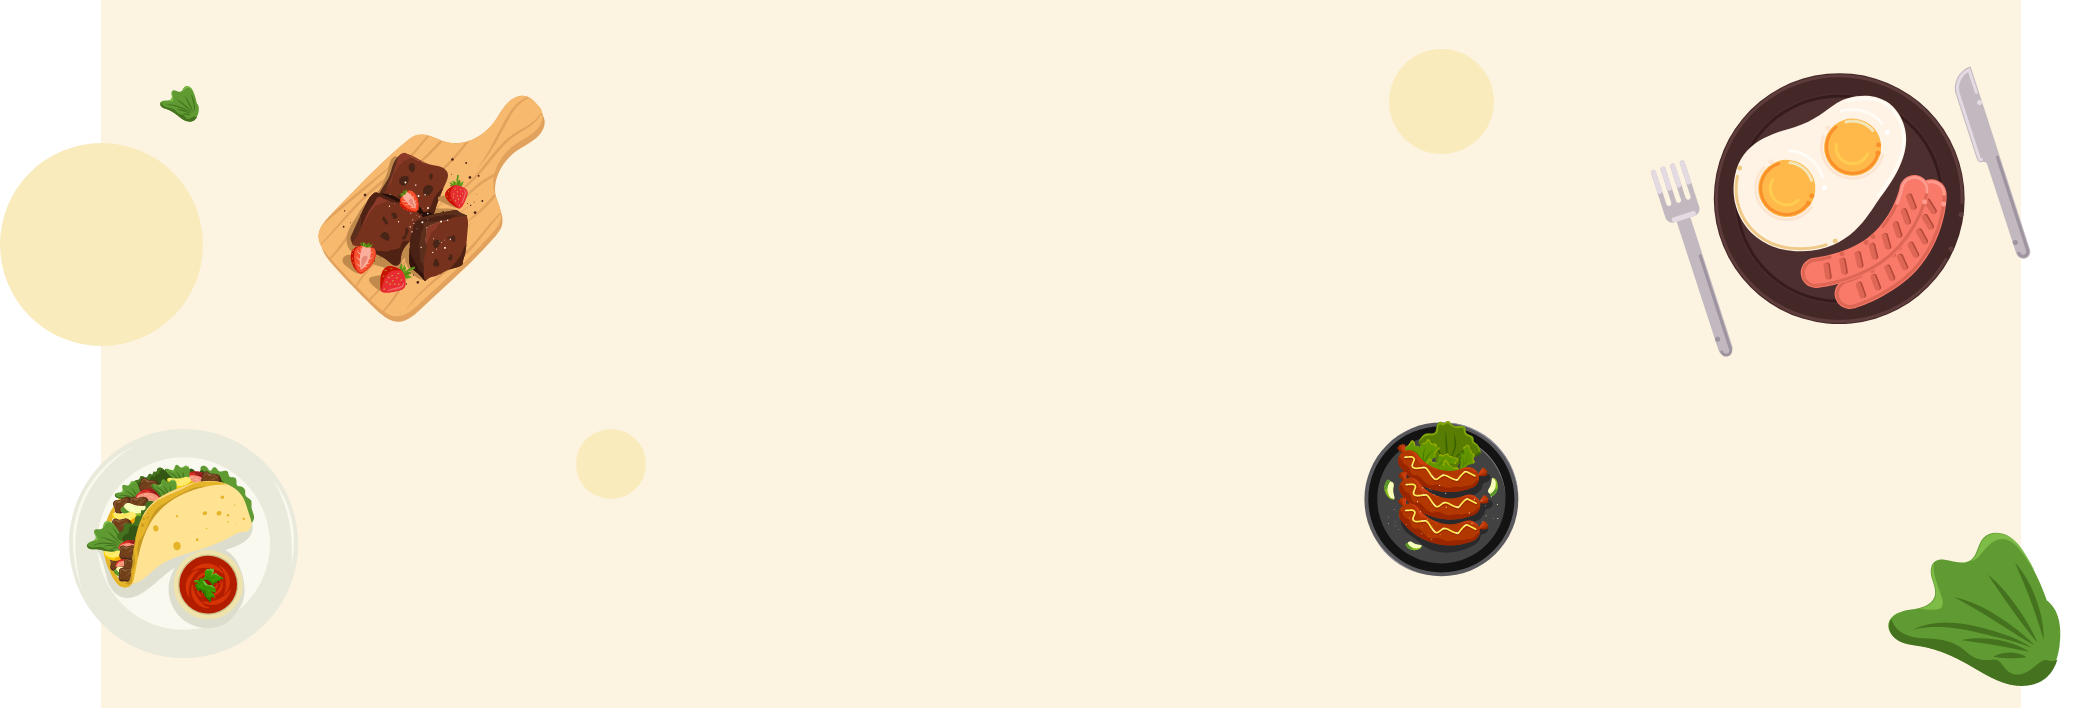
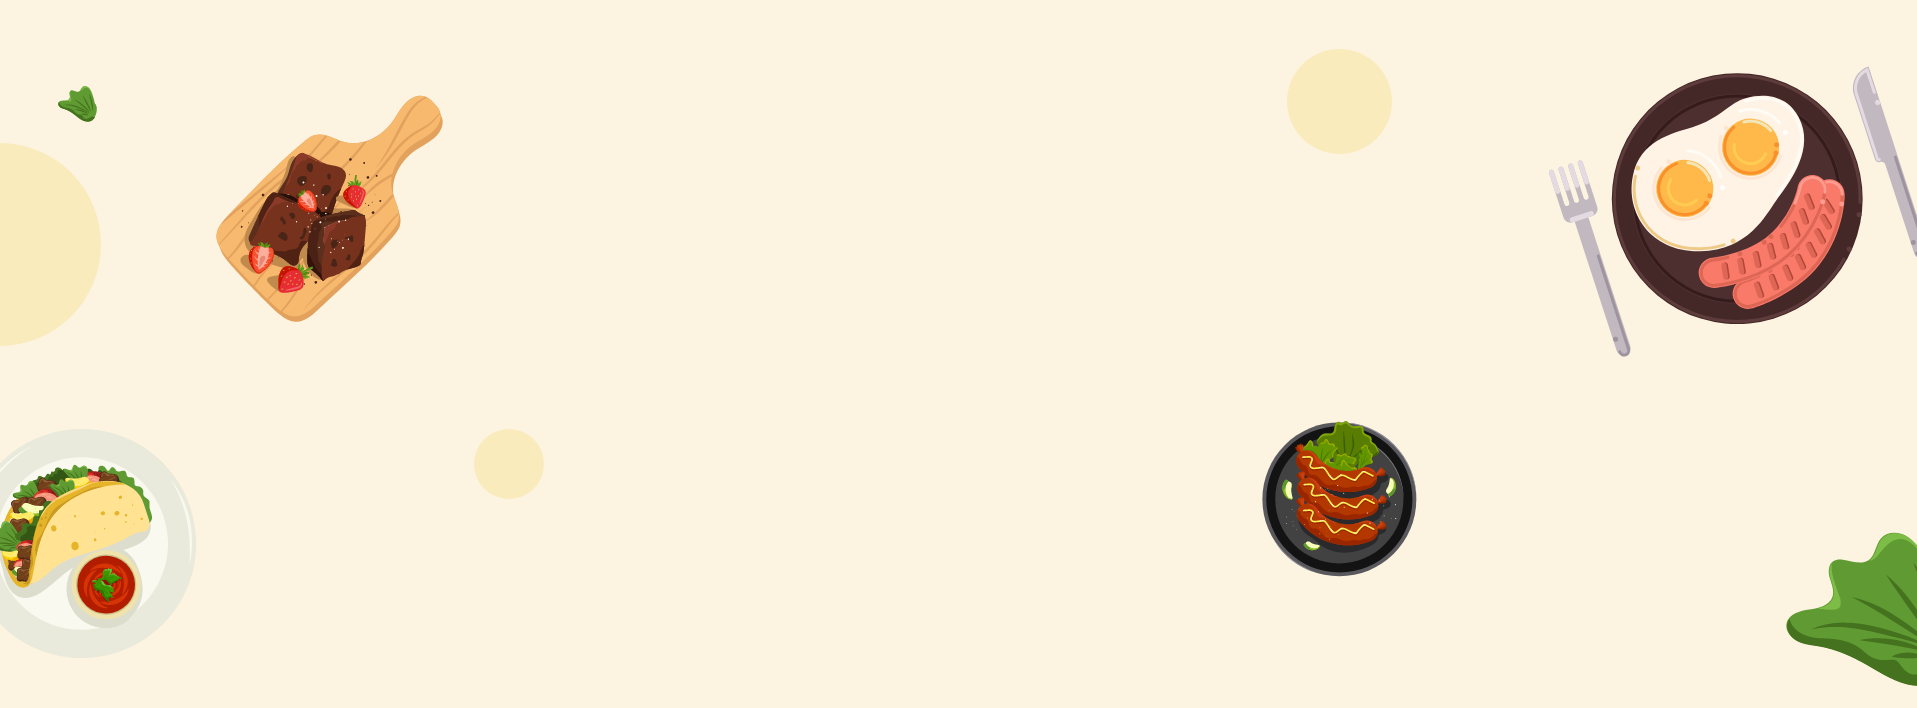
meal section completed

diff --git a/src/Components/Pages/Breakfast/Breakfast.js b/src/Components/Pages/Breakfast/Breakfast.js
@@ -1,60 +1,60 @@
 import React from 'react';
 import Meal from '../Meal/Meal';
-const dinnerMeals = [
+const breakfastMeals = [
     {
-        id: 29384,
-        img: "https://i.ibb.co/5FpY80r/dinner1.png",
+        id: 87639,
+        img: "https://i.ibb.co/8PKKqVc/breakfast1.png",
         name: "Healthy Meal Plan",
-        price: 65.99,
+        price: 23.99,
         text: "How we dream about our feature"
     },
     {
-        id: 34546,
-        img: "https://i.ibb.co/VxVSpVZ/dinner2.png",
+        id: 29876,
+        img: "https://i.ibb.co/68dJjzg/breakfast2.png",
         name: "Fried Chicken",
-        price: 57.30,
+        price: 10.30,
         text: "This shoe is one of the best shoe i ever wear"
     },
     {
-        id: 88776,
-        img: "https://i.ibb.co/qMMmNf0/dinner3.png",
+        id: 73976,
+        img: "https://i.ibb.co/94wrHzc/breakfast3.png",
         name: "Fried Chicken",
-        price: 38.48,
+        price: 30.88,
         text: "This shoe is one of the best shoe i ever wear"
     },
     {
-        id: 88834,
-        img: "https://i.ibb.co/g9hdFTL/dinner4.png",
+        id: 97865,
+        img: "https://i.ibb.co/V9hvCpK/breakfast4.png",
         name: "Fried Chicken",
-        price: 89.49,
+        price: 40.99,
         text: "This shoe is one of the best shoe i ever wear"
     },
     {
-        id: 56564,
-        img: "https://i.ibb.co/zm4y7Jj/dinner5.png",
+        id: 12345,
+        img: "https://i.ibb.co/b10kBwV/breakfast5.png",
         name: "Fried Chicken",
-        price: 159.99,
+        price: 199.99,
         text: "This shoe is one of the best shoe i ever wear"
     },
     {
-        id: 87654,
-        img: "https://i.ibb.co/Xbp6S79/dinner6.png",
+        id: 87629,
+        img: "https://i.ibb.co/Vpdr6nr/breakfast6.png",
         name: "Fried Chicken",
-        price: 68.99,
+        price: 100,
         text: "This shoe is one of the best shoe i ever wear"
     }
 ]
 
-const Dinner = () => {
+const Breakfast = () => {
     return (
         <div>
             <div className='grid grid-cols-3 gap-10'>
                 {
-                    dinnerMeals.map(meal => <Meal key={meal.id} meal={meal}></Meal>)
+                    breakfastMeals.map(meal => <Meal key={meal.id} meal={meal}></Meal>)
                 }
             </div>
         </div>
     );
 };
 
-export default Dinner;
+export default Breakfast;

diff --git a/src/Components/Pages/Lunch/Lunch.js b/src/Components/Pages/Lunch/Lunch.js
@@ -1,0 +1,60 @@
+import React from 'react';
+import Meal from '../Meal/Meal';
+const lunchMeals = [
+    {
+        id: 88839,
+        img: "https://i.ibb.co/wgd6gvJ/lunch1.png",
+        name: "Healthy Meal Plan",
+        price: 44.99,
+        text: "How we dream about our feature"
+    },
+    {
+        id: 24354,
+        img: "https://i.ibb.co/0CCbLgS/lunch2.png",
+        name: "Fried Chicken",
+        price: 40.30,
+        text: "This shoe is one of the best shoe i ever wear"
+    },
+    {
+        id: 93849,
+        img: "https://i.ibb.co/CsxsCSV/lunch4.png",
+        name: "Fried Chicken",
+        price: 35.85,
+        text: "This shoe is one of the best shoe i ever wear"
+    },
+    {
+        id: 22883,
+        img: "https://i.ibb.co/CsxsCSV/lunch4.png",
+        name: "Fried Chicken",
+        price: 60,
+        text: "This shoe is one of the best shoe i ever wear"
+    },
+    {
+        id: 77676,
+        img: "https://i.ibb.co/CPbwjDX/lunch5.png",
+        name: "Fried Chicken",
+        price: 69.99,
+        text: "This shoe is one of the best shoe i ever wear"
+    },
+    {
+        id: 23453,
+        img: "https://i.ibb.co/XbC3nC5/lunch6.png",
+        name: "Fried Chicken",
+        price: 120,
+        text: "This shoe is one of the best shoe i ever wear"
+    }
+]
+
+const Lunch = () => {
+    return (
+        <div>
+            <div className='grid grid-cols-3 gap-10'>
+                {
+                    lunchMeals.map(meal => <Meal key={meal.id} meal={meal}></Meal>)
+                }
+            </div>
+        </div>
+    );
+};
+
+export default Lunch;

diff --git a/src/App.js b/src/App.js
@@ -4,6 +4,9 @@ import Home from './Components/Pages/Home/Home';
 import Cart from './Components/Pages/Cart/Cart';
 import Login from './Components/Pages/Login/Login';
 import SignUp from './Components/Pages/SignUp/SignUp';
+import Breakfast from './Components/Pages/Breakfast/Breakfast';
+import Lunch from './Components/Pages/Lunch/Lunch';
+import Dinner from './Components/Pages/Dinner/Dinner';
 
 function App() {
   return (
@@ -11,7 +14,11 @@ function App() {
       <Header></Header>
       <Routes>
         <Route path="/" element={<Home></Home>}></Route>
-        <Route path="/home" element={<Home></Home>}></Route>
+        <Route path="/home" element={<Home></Home>}>
+          <Route path="breakfast" element={<Breakfast></Breakfast>}></Route>
+          <Route path="lunch" element={<Lunch></Lunch>}></Route>
+          <Route path="dinner" element={<Dinner></Dinner>}></Route>
+        </Route>
         <Route path="/cart" element={<Cart></Cart>}></Route>
         <Route path="/login" element={<Login></Login>}></Route>
         <Route path="/signup" element={<SignUp></SignUp>}></Route>

diff --git a/src/Components/Pages/Banner/Banner.js b/src/Components/Pages/Banner/Banner.js
@@ -7,8 +7,8 @@ const Banner = () => {
             <div className='mx-auto pt-40 w-2/3'>
                 <h2 className='text-5xl text-slate-800 font-semibold text-center'>Best food waiting for your belly</h2>
                 <div className='flex justify-center items-center mt-10'>
-                    <input className='w-2/5 rounded-full outline-none text-ms text-slate-700 px-5 py-3' type="text" placeholder='search food items' />
-                    <button className='bg-red-600 text-white px-8 ml-[-50px] py-3 rounded-full'>Search</button>
+                    <input className='w-1/2 rounded-full outline-none text-ms text-slate-700 px-5 pr-24 py-3' type="text" placeholder='search food items' />
+                    <button className='bg-red-600 text-white px-8 ml-[-80px] py-3 rounded-full'>Search</button>
                 </div>
             </div>
         </div>

diff --git a/src/Components/Pages/AllMeals/AllMeals.js b/src/Components/Pages/AllMeals/AllMeals.js
@@ -1,9 +1,16 @@
 import React from 'react';
+import { Outlet } from 'react-router-dom';
+import CustomLink from '../../CustomLink/CustomLink';
 
 const AllMeals = () => {
     return (
-        <div>
-            <h2>All Meals</h2>
+        <div className='px-40 my-20 text-center'>
+            <div className='mb-20 flex justify-center'>
+                <CustomLink className='mx-8 font-semibold text-slate-900' to={`/home/breakfast`}>Breakfast</CustomLink>
+                <CustomLink className='mx-8 font-semibold text-slate-900' to={`/home/lunch`}>Lunch</CustomLink>
+                <CustomLink className='mx-8 font-semibold text-slate-900' to={`/home/dinner`}>Dinner</CustomLink>
+            </div>
+            <Outlet></Outlet>
         </div>
     );
 };

diff --git a/src/Components/CustomLink/CustomLink.js b/src/Components/CustomLink/CustomLink.js
@@ -1,0 +1,21 @@
+import React from 'react';
+import { Link, useMatch, useResolvedPath } from 'react-router-dom';
+
+const CustomLink = ({ children, to, ...props }) => {
+    let resolved = useResolvedPath(to);
+    let match = useMatch({ path: resolved.pathname, end: true });
+
+    return (
+        <div>
+            <Link
+                style={{ textDecoration: match ? "underline " : "none", color: match ? "OrangeRed" : "rgb(44, 44, 44)", textUnderlineOffset: match ? "5px" : "none" }}
+                to={to}
+                {...props}
+            >
+                {children}
+            </Link>
+        </div>
+    );
+};
+
+export default CustomLink;

diff --git a/src/Components/Pages/Meal/Meal.js b/src/Components/Pages/Meal/Meal.js
@@ -1,0 +1,16 @@
+import React from 'react';
+
+const Meal = ({ meal }) => {
+    const { name, price, img } = meal;
+    return (
+        <div>
+            <div className='flex justify-center items-center'>
+                <img className='w-52' src={img} alt="" />
+            </div>
+            <h2 className='text-xl mt-3 font-semibold text-slate-800'>{name}</h2>
+            <p className='mt-2 text-xl'>${price}</p>
+        </div>
+    );
+};
+
+export default Meal;

diff --git a/src/Components/Pages/Home/Home.js b/src/Components/Pages/Home/Home.js
@@ -1,10 +1,12 @@
 import React from 'react';
 import Banner from '../Banner/Banner';
+import AllMeals from '../AllMeals/AllMeals';
 
 const Home = () => {
     return (
         <div>
             <Banner></Banner>
+            <AllMeals></AllMeals>
         </div>
     );
 };

diff --git a/src/Components/Pages/Banner/Banner.css b/src/Components/Pages/Banner/Banner.css
@@ -2,6 +2,5 @@
     background-image: url(../../../images/bannerbackground.png);
     height: 90vh;
     background-repeat: no-repeat;
-    background-size: 104%;
-    margin-left: -80px;
+    background-size: cover;
 }
